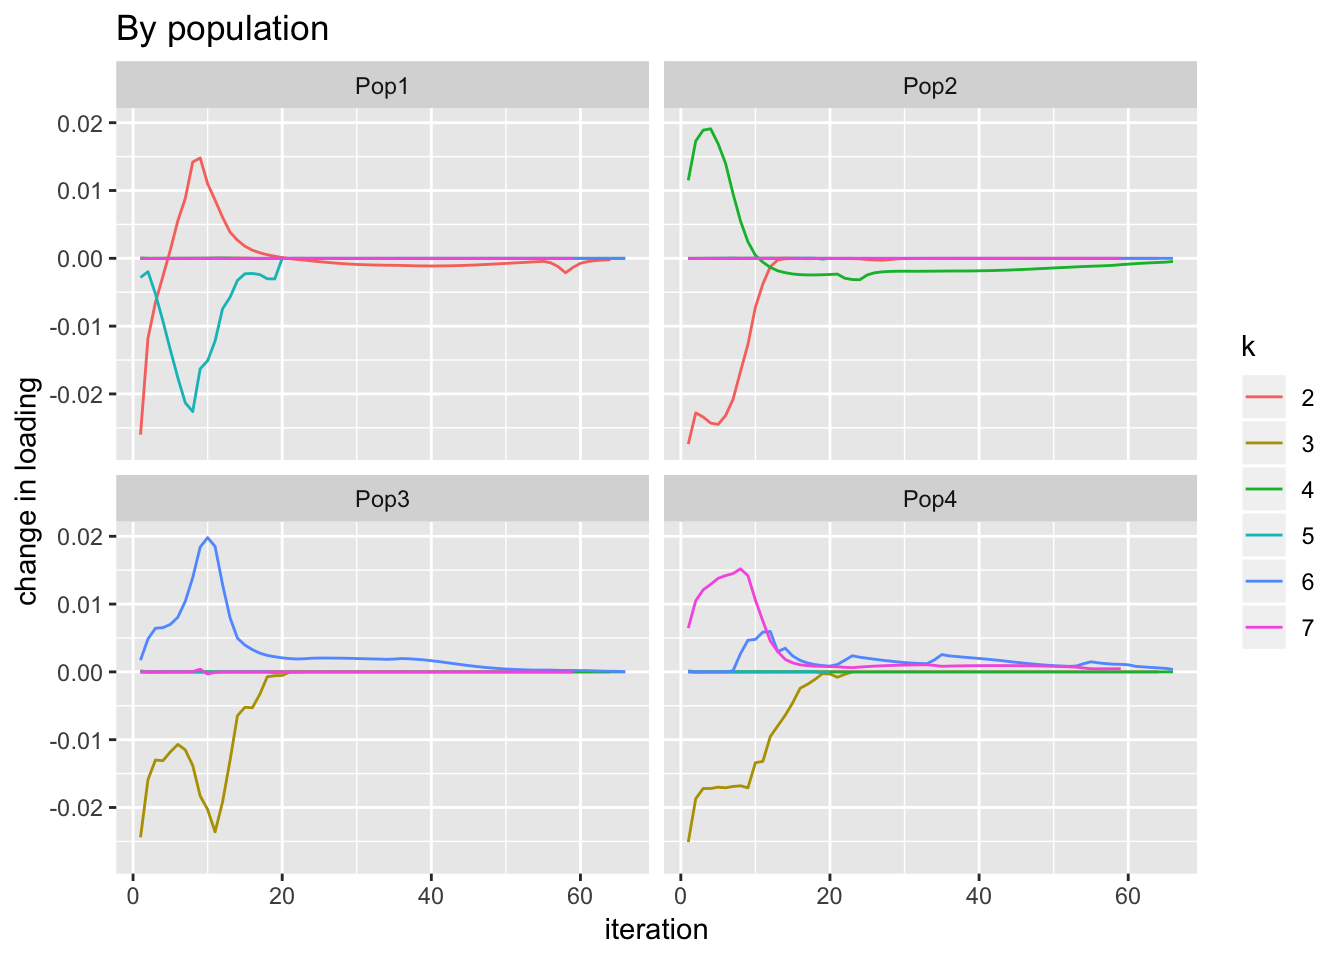
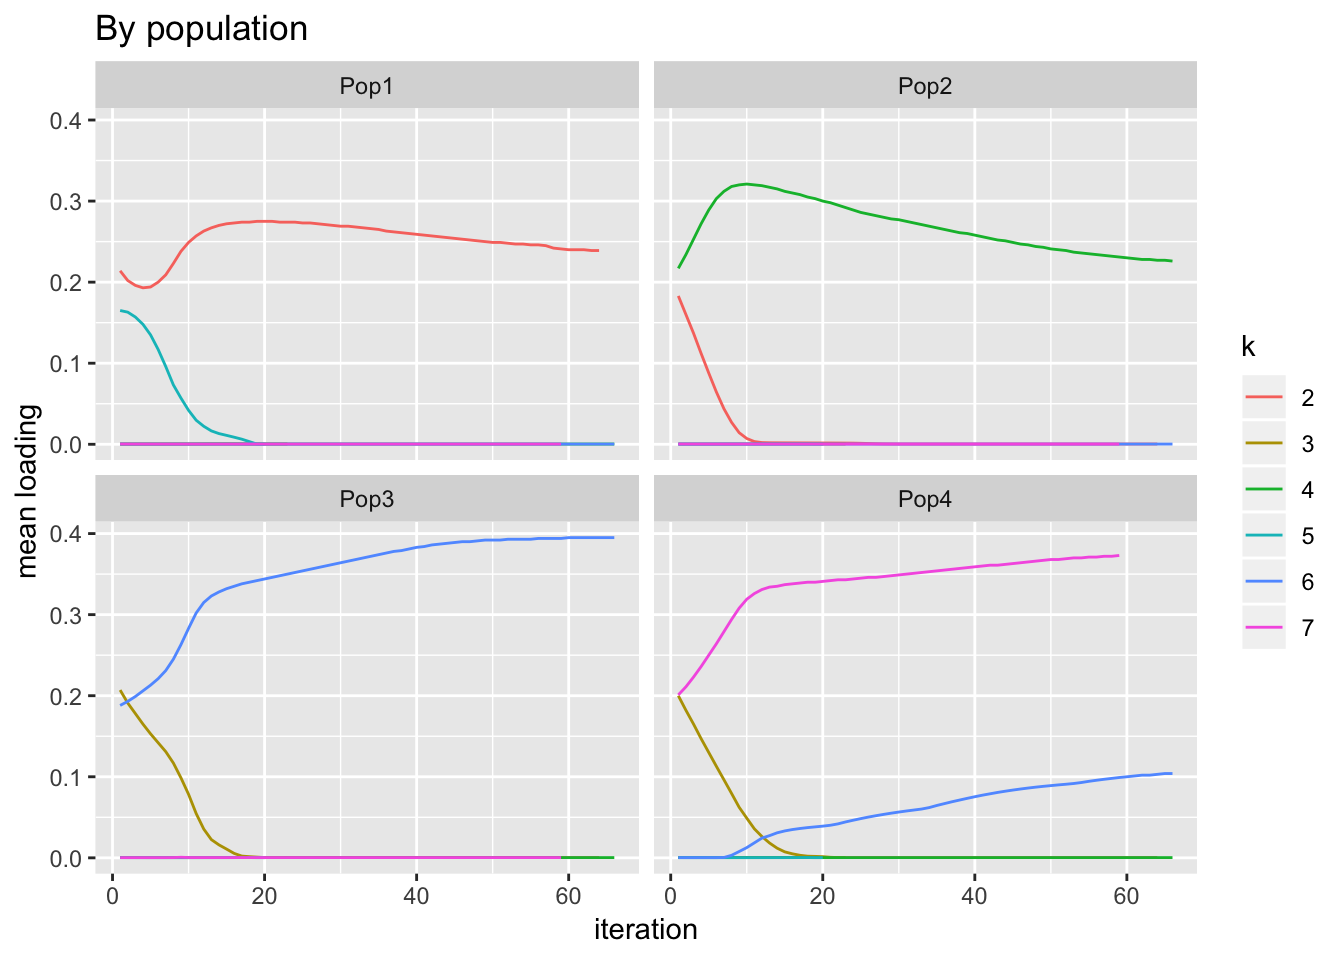
Build site.

diff --git a/docs/drift_backfit.html b/docs/drift_backfit.html
@@ -541,10 +541,10 @@ This reproducible <a href="http://rmarkdown.rstudio.com">R Markdown</a> analysis
 <div class="panel panel-default">
 <div class="panel-heading">
 <p class="panel-title">
-<a data-toggle="collapse" data-parent="#workflowr-checks" href="#strongRepositoryversionstrongahrefhttpsgithubcomwillwerscheidscFLASHtree9451bcb478ce40f2d9966c7d3f97c39f0cabacf4targetblank9451bcba"> <span class="glyphicon glyphicon-ok text-success" aria-hidden="true"></span> <strong>Repository version:</strong> <a href="https://github.com/willwerscheid/scFLASH/tree/9451bcb478ce40f2d9966c7d3f97c39f0cabacf4" target="_blank">9451bcb</a> </a>
+<a data-toggle="collapse" data-parent="#workflowr-checks" href="#strongRepositoryversionstrongahrefhttpsgithubcomwillwerscheidscFLASHtree7a018cf1af72d3f07d3f521e9b63e5b9ee5bc459targetblank7a018cfa"> <span class="glyphicon glyphicon-ok text-success" aria-hidden="true"></span> <strong>Repository version:</strong> <a href="https://github.com/willwerscheid/scFLASH/tree/7a018cf1af72d3f07d3f521e9b63e5b9ee5bc459" target="_blank">7a018cf</a> </a>
 </p>
 </div>
[2 lines of base64/hex data omitted]
 <div class="panel-body">
 <p>
 Great! You are using Git for version control. Tracking code development and connecting the code version to the results is critical for reproducibility. The version displayed above was the version of the Git repository at the time these results were generated. <br><br> Note that you need to be careful to ensure that all relevant files for the analysis have been committed to Git prior to generating the results (you can use <code>wflow_publish</code> or <code>wflow_git_commit</code>). workflowr only checks the R Markdown file, but you know if there are other scripts or data files that it depends on. Below is the status of the Git repository when the results were generated:
@@ -560,12 +560,12 @@ Untracked files:
     Untracked:  analysis/NBapprox.Rmd
     Untracked:  code/missing_data.R
     Untracked:  code/pseudocounts.R
-    Untracked:  data/flash_drift_res.txt
     Untracked:  data/tuft.R
     Untracked:  data/tuft.rds
 
 Unstaged changes:
     Modified:   code/sc_comparisons.R
+    Modified:   data/flash_drift_res.txt
 
 </code></pre>
 <p>
@@ -604,6 +604,40 @@ Message
 </tr>
 </thead>
 <tbody>
+<tr>
+<td>
+Rmd
+</td>
+<td>
+<a href="https://github.com/willwerscheid/scFLASH/blob/7a018cf1af72d3f07d3f521e9b63e5b9ee5bc459/analysis/drift_backfit.Rmd" target="_blank">7a018cf</a>
+</td>
+<td>
+Jason Willwerscheid
+</td>
+<td>
+2019-04-29
+</td>
+<td>
+wflow_publish(“analysis/drift_backfit.Rmd”)
+</td>
+</tr>
+<tr>
+<td>
+html
+</td>
+<td>
+<a href="https://rawcdn.githack.com/willwerscheid/scFLASH/b2fca272b33149a94f70b6493825c1c888613400/docs/drift_backfit.html" target="_blank">b2fca27</a>
+</td>
+<td>
+Jason Willwerscheid
+</td>
+<td>
+2019-04-29
+</td>
+<td>
+Build site.
+</td>
+</tr>
 <tr>
 <td>
 Rmd
@@ -732,14 +766,18 @@ structure_plot = function(gath_df, colset, facet_levels, facet_grp=&quot;Simple.
   
 }
 
-plot_flash_loadings = function(flash_fit, n_per_pop){
+plot_flash_loadings = function(flash_fit, n_per_pop, rmv_k1 = TRUE){
   
   l_df = as.data.frame(flash_fit$loadings$normalized.loadings[[1]])
   colnames(l_df) = 1:ncol(l_df)
   l_df$ID = 1:nrow(l_df)
   l_df$pop = c(rep(&quot;Pop1&quot;, n_per_pop), rep(&quot;Pop2&quot;, n_per_pop),
                rep(&quot;Pop3&quot;, n_per_pop), rep(&quot;Pop4&quot;, n_per_pop))
-  gath_l_df = l_df %&gt;% gather(K, value, -ID, -pop) %&gt;% filter(K != 1)
+  if (rmv_k1) {
+    gath_l_df = l_df %&gt;% gather(K, value, -ID, -pop) %&gt;% filter(K != 1)
+  } else {
+    gath_l_df = l_df %&gt;% gather(K, value, -ID, -pop) 
+  }
   
   p1 = ggplot(gath_l_df, aes(x=ID, y=value, color=pop)) + 
     geom_point() +
@@ -807,23 +845,96 @@ flash_bf = flashier::flashier(Y,
                               backfit=&quot;only&quot;,
                               backfit.reltol=10,
                               verbose.lvl=0)</code></pre>
-<p>Here’s what the greedy factors look like. It’s very easy to reproduce the population tree from them.</p>
+<p>Here’s what the greedy factors look like. It’s very easy to recreate the population tree from them.</p>
 <pre class="r"><code>p_res = plot_flash_loadings(flash_fit, n_per_pop)
 print(p_res$p1)</code></pre>
 <p><img src="figure/drift_backfit.Rmd/greedy-1.png" width="672" style="display: block; margin: auto;" /></p>
+<p>
+<button type="button" class="btn btn-default btn-xs btn-workflowr btn-workflowr-fig" data-toggle="collapse" data-target="#fig-greedy-1">
+Past versions of greedy-1.png
+</button>
+</p>
+<div id="fig-greedy-1" class="collapse">
+<div class="table-responsive">
+<table class="table table-condensed table-hover">
+<thead>
+<tr>
+<th>
+Version
+</th>
+<th>
+Author
+</th>
+<th>
+Date
+</th>
+</tr>
+</thead>
+<tbody>
+<tr>
+<td>
+<a href="https://github.com/willwerscheid/scFLASH/blob/b2fca272b33149a94f70b6493825c1c888613400/docs/figure/drift_backfit.Rmd/greedy-1.png" target="_blank">b2fca27</a>
+</td>
+<td>
+Jason Willwerscheid
+</td>
+<td>
+2019-04-29
+</td>
+</tr>
+</tbody>
+</table>
+</div>
+</div>
 <p>The backfitted factors are much less helpful.</p>
 <pre class="r"><code>p_res = plot_flash_loadings(flash_bf, n_per_pop)
 print(p_res$p1)</code></pre>
 <p><img src="figure/drift_backfit.Rmd/bf-1.png" width="672" style="display: block; margin: auto;" /></p>
+<p>
+<button type="button" class="btn btn-default btn-xs btn-workflowr btn-workflowr-fig" data-toggle="collapse" data-target="#fig-bf-1">
+Past versions of bf-1.png
+</button>
+</p>
+<div id="fig-bf-1" class="collapse">
+<div class="table-responsive">
+<table class="table table-condensed table-hover">
+<thead>
+<tr>
+<th>
+Version
+</th>
+<th>
+Author
+</th>
+<th>
+Date
+</th>
+</tr>
+</thead>
+<tbody>
+<tr>
+<td>
+<a href="https://github.com/willwerscheid/scFLASH/blob/b2fca272b33149a94f70b6493825c1c888613400/docs/figure/drift_backfit.Rmd/bf-1.png" target="_blank">b2fca27</a>
+</td>
+<td>
+Jason Willwerscheid
+</td>
+<td>
+2019-04-29
+</td>
+</tr>
+</tbody>
+</table>
+</div>
+</div>
 <p>Now I track the changes in mean factor loadings per population as the backfit progresses. Ideally I’d sink the output, but I was lazy and copy-and-pasted from the console. The data file is in the repo.</p>
-<pre class="r"><code>p_change = function(new, old, k, idx) {
-  signif(mean(flashier:::get.EF.k(new, k, 1)[idx]) 
-         - mean(flashier:::get.EF.k(old, k, 1)[idx])) 
+<pre class="r"><code>p_mean = function(new, old, k, idx) {
+  signif(mean(flashier:::get.EF.k(new, k, 1)[idx])) 
 }
-p1_change = function(new, old, k) p_change(new, old, k, 1:20)
-p2_change = function(new, old, k) p_change(new, old, k, 21:40)
-p3_change = function(new, old, k) p_change(new, old, k, 41:60)
-p4_change = function(new, old, k) p_change(new, old, k, 61:80)
+p1_mean = function(new, old, k) p_mean(new, old, k, 1:20)
+p2_mean = function(new, old, k) p_mean(new, old, k, 21:40)
+p3_mean = function(new, old, k) p_mean(new, old, k, 41:60)
+p4_mean = function(new, old, k) p_mean(new, old, k, 61:80)
 
 flash_bf = flashier::flashier(Y, 
                               flash.init = flash_fit,
@@ -836,8 +947,8 @@ flash_bf = flashier::flashier(Y,
                               backfit=&quot;only&quot;,
                               backfit.reltol=10,
                               verbose.lvl = -1,
-                              verbose.fns = c(p1_change, p2_change,
-                                              p3_change, p4_change),
+                              verbose.fns = c(p1_mean, p2_mean,
+                                              p3_mean, p4_mean),
                               verbose.colnames = c(&quot;P1&quot;, &quot;P2&quot;, &quot;P3&quot;, &quot;P4&quot;),
                               verbose.colwidths = rep(12, 4))</code></pre>
 <p>Load the data and plot it. One sees, for example, that population 2 borrows from factor 2 to pay factor 4. Most interesting to me is what happens with population 1: initially, loadings for <em>both</em> factors 2 and 5 decrease; it’s only after a few iterations that it is borrowing from 5 to pay 2.</p>
@@ -849,14 +960,126 @@ df &lt;- reshape2::melt(df, id.vars = 1:2, measure.vars = 3:6)
 
 ggplot(subset(df, k != &quot;1&quot;), aes(x = iteration, y = value)) +
   geom_line(aes(color = k)) + facet_wrap(~ variable) +
-  labs(y = &quot;change in loading&quot;, title = &quot;By population&quot;)</code></pre>
+  labs(y = &quot;mean loading&quot;, title = &quot;By population&quot;)</code></pre>
 <p><img src="figure/drift_backfit.Rmd/plots-1.png" width="672" style="display: block; margin: auto;" /></p>
+<p>
+<button type="button" class="btn btn-default btn-xs btn-workflowr btn-workflowr-fig" data-toggle="collapse" data-target="#fig-plots-1">
+Past versions of plots-1.png
+</button>
+</p>
+<div id="fig-plots-1" class="collapse">
+<div class="table-responsive">
+<table class="table table-condensed table-hover">
+<thead>
+<tr>
+<th>
+Version
+</th>
+<th>
+Author
+</th>
+<th>
+Date
+</th>
+</tr>
+</thead>
+<tbody>
+<tr>
+<td>
+<a href="https://github.com/willwerscheid/scFLASH/blob/b2fca272b33149a94f70b6493825c1c888613400/docs/figure/drift_backfit.Rmd/plots-1.png" target="_blank">b2fca27</a>
+</td>
+<td>
+Jason Willwerscheid
+</td>
+<td>
+2019-04-29
+</td>
+</tr>
+</tbody>
+</table>
+</div>
+</div>
 <p>I do expect factors 2 and 3 to initially decrease since they’re fit early on and some of the variability that they capture will be better captured by subsequent factors.</p>
 <pre class="r"><code>ggplot(subset(df, k != &quot;1&quot;), aes(x = iteration, y = value)) +
   geom_line(aes(color = variable)) + facet_wrap(~ k) + 
-  labs(y = &quot;change in loading&quot;, title = &quot;By factor&quot;)</code></pre>
+  labs(y = &quot;mean loading&quot;, title = &quot;By factor&quot;)</code></pre>
 <p><img src="figure/drift_backfit.Rmd/plots2-1.png" width="672" style="display: block; margin: auto;" /></p>
-It’s not totally clear that factor 6 has converged. It’s very possible that different settings would lead to four factors that are entirely population-specific. <br> <br>
+<p>
+<button type="button" class="btn btn-default btn-xs btn-workflowr btn-workflowr-fig" data-toggle="collapse" data-target="#fig-plots2-1">
+Past versions of plots2-1.png
+</button>
+</p>
+<div id="fig-plots2-1" class="collapse">
+<div class="table-responsive">
+<table class="table table-condensed table-hover">
+<thead>
+<tr>
+<th>
+Version
+</th>
+<th>
+Author
+</th>
+<th>
+Date
+</th>
+</tr>
+</thead>
+<tbody>
+<tr>
+<td>
+<a href="https://github.com/willwerscheid/scFLASH/blob/b2fca272b33149a94f70b6493825c1c888613400/docs/figure/drift_backfit.Rmd/plots2-1.png" target="_blank">b2fca27</a>
+</td>
+<td>
+Jason Willwerscheid
+</td>
+<td>
+2019-04-29
+</td>
+</tr>
+</tbody>
+</table>
+</div>
+</div>
+<p>It’s not totally clear that, in particular, factors 6 and 7 have converged.</p>
+<p>Two ideas comes to mind. I’m not sure we should be backfitting the “mean factor”. Indeed, if we remove it from the backfitting process, we very quickly end up with 4 population-specific factors.</p>
+<pre class="r"><code>flash_bf2 &lt;- flashier::flashier(Y, 
+                                flash.init = flash_fit,
+                                backfit = &quot;only&quot;,
+                                backfit.kset = 2:7,
+                                verbose.lvl = 0)
+p_res = plot_flash_loadings(flash_bf2, n_per_pop)
+print(p_res$p1)</code></pre>
+<p><img src="figure/drift_backfit.Rmd/refit-1.png" width="672" style="display: block; margin: auto;" /></p>
+<p>Alternatively, we can remove the mean factor altogether and see what happens.</p>
+<pre class="r"><code>flash_bf3 &lt;- flashier::flashier(Y, 
+                                greedy.Kmax = K, 
+                                prior.type = c(&quot;nonnegative&quot;, &quot;point.normal&quot;),
+                                ebnm.param = list(fixg=TRUE, 
+                                                  g=list(pi0 = 0, a=1, mu=0)),
+                                var.type = 0,
+                                backfit = &quot;final&quot;,
+                                verbose.lvl = 0) 
+p_res = plot_flash_loadings(flash_bf3, n_per_pop, rmv_k1 = FALSE)
+print(p_res$p1)</code></pre>
+<p><img src="figure/drift_backfit.Rmd/refit2-1.png" width="672" style="display: block; margin: auto;" /></p>
+<p>The tree is back! It’s still not as nice as the original, but it’s a glimmer of hope. Let’s compare ELBOs.</p>
+<pre class="r"><code>list(greedy = flash_fit$objective,
+     backfit.all = flash_bf$objective,
+     backfit.all.but.mean = flash_bf2$objective,
+     no.mean.factor = flash_bf3$objective)</code></pre>
+<pre><code>$greedy
+[1] -863110
+
+$backfit.all
+[1] -850956.1
+
+$backfit.all.but.mean
+[1] -851550.3
+
+$no.mean.factor
+[1] -847619.1</code></pre>
+The last fit gives the best objective by far. <br> <br>
 <p>
 <button type="button" class="btn btn-default btn-workflowr btn-workflowr-sessioninfo" data-toggle="collapse" data-target="#workflowr-sessioninfo" style="display: block;">
 <span class="glyphicon glyphicon-wrench" aria-hidden="true"></span> Session information
